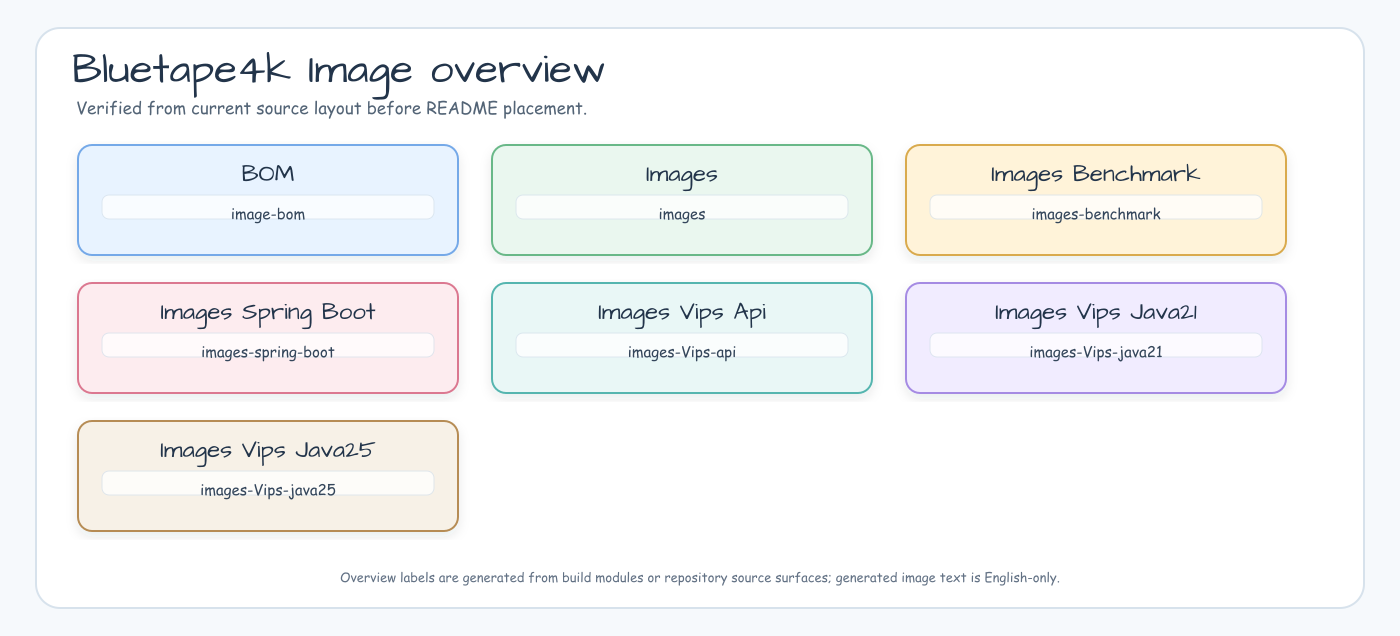
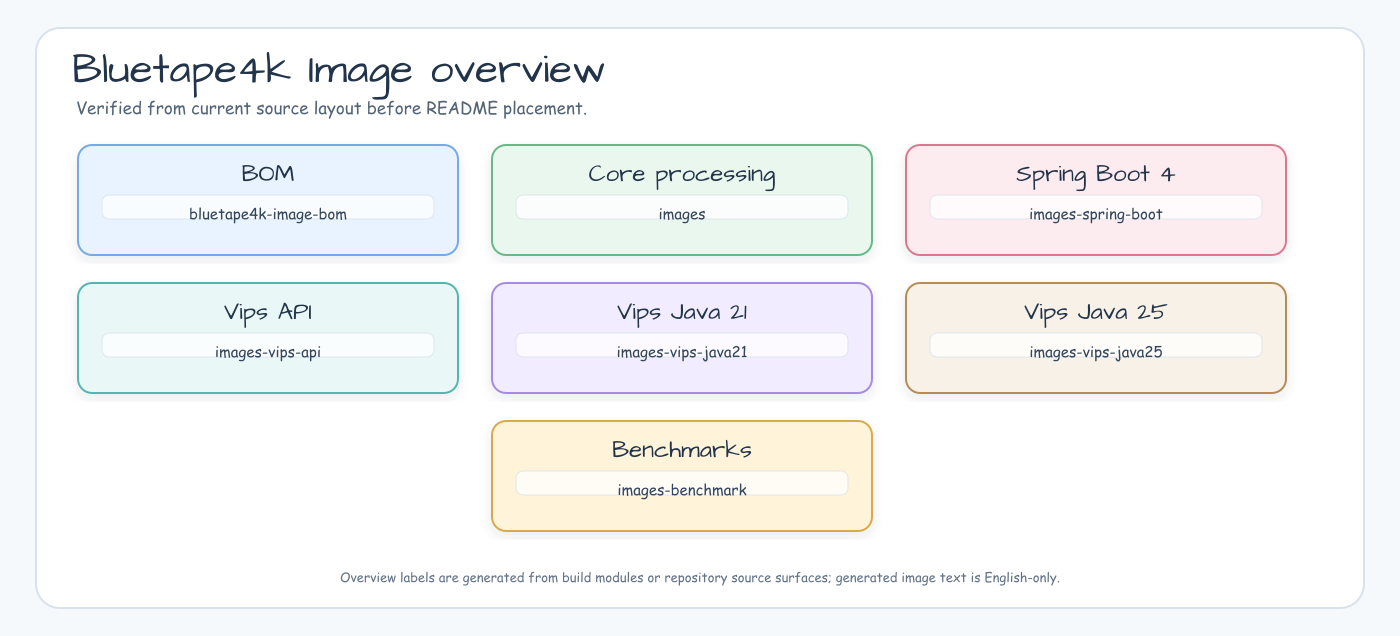
docs: align image README visuals with source modules
Refresh README visuals and dependency examples so the image repository presents the current Gradle module layout first and uses current published coordinates.\n\nConstraint: README diagrams must remain English-only with pastel styling and verified PNG output.\nRejected: Preserve generated title-case labels | they obscured artifact boundaries and left the BOM out of the root module table.\nConfidence: high\nScope-risk: narrow\nDirective: Verify settings.gradle.kts and gradle.properties before regenerating README visuals.\nTested: rsvg-convert root SVG to PNG; xmllint updated SVG assets; README image link scan; stale coordinate grep; git diff --check; ./gradlew -q projects.\nNot-tested: Full Gradle test suite; documentation-only change.

diff --git a/images/README.ko.md b/images/README.ko.md
@@ -4,7 +4,7 @@
 
 JPG, PNG, GIF, WebP, **TIFF/SVG** (Issue #134) 등의 이미지를 로드, 변환, 크기 조절, 분할, 필터 적용 등의 조작을 지원하는 라이브러리입니다.
 [Scrimage](https://github.com/sksamuel/scrimage) 라이브러리를 기반으로 하며, Coroutines를 활용한 비동기 이미지 처리를 제공합니다.
-AVIF·HEIC는 incubating 인터페이스로 제공되며, 구현체는 `bluetape4k-images-vips` 모듈에서 제공합니다.
+AVIF·HEIC는 incubating 인터페이스로 제공되며, libvips 지원은 `images-vips-api`에서 노출하고 런타임 백엔드는 `images-vips-java21` 또는 `images-vips-java25`가 제공합니다.
 
 ## 아키텍처
 
@@ -28,8 +28,8 @@ AVIF·HEIC는 incubating 인터페이스로 제공되며, 구현체는 `bluetape
 | WEBP | `SuspendWebpWriter`              | 최고 압축률, 최신 포맷                                                    |
 | TIFF | `SuspendTiffWriter` / `SuspendTiffMultiPageWriter` | 다중 페이지, 다양한 압축 방식 (DEFLATE/LZW/NONE/JPEG) |
 | SVG  | `BatikSvgRasterizer`             | 래스터 변환; XXE/SSRF 방어 기본 적용                                        |
-| AVIF | `AvifWriter` *(incubating)*      | 인터페이스만 제공, 구현체는 `bluetape4k-images-vips`                         |
-| HEIC | `HeicReader` *(incubating)*      | 인터페이스만 제공, 구현체는 `bluetape4k-images-vips`                         |
+| AVIF | `AvifWriter` *(incubating)*      | 인터페이스만 제공, native 지원이 있을 때 libvips 런타임 백엔드 사용             |
+| HEIC | `HeicReader` *(incubating)*      | 인터페이스만 제공, native 지원이 있을 때 libvips 런타임 백엔드 사용             |
 
 - **동적 생성**: JPG가 가장 빠름 (실시간 처리용)
 - **정적 파일**: WebP가 가장 효율적 (저장 공간 절약)
@@ -755,7 +755,7 @@ val ycbcrArray = image.toYCbCrArray() // FloatArray [y0,cb0,cr0, ...]
 
 ### 변환 아키텍처
 
-![images Architecture 3 diagram](../docs/images/readme-diagrams/images-architecture-03.png)
+![images Transform Architecture diagram](../docs/images/readme-diagrams/images-architecture-03.png)
 
 ### AutoCrop — 자동 여백 제거
 
@@ -986,6 +986,6 @@ val asyncExif: ExifData = File("photo.jpg").suspendReadExif()
 
 ```kotlin
 dependencies {
-    implementation("io.github.bluetape4k:bluetape4k-images:${version}")
+    implementation("io.github.bluetape4k.image:bluetape4k-images:${version}")
 }
 ```

diff --git a/images/README.md b/images/README.md
@@ -2,7 +2,7 @@
 
 English | [한국어](./README.ko.md)
 
-A library for loading, converting, resizing, splitting, and applying filters to images in formats such as JPG, PNG, GIF, WebP, and **TIFF/SVG** (Issue #134). Built on the [Scrimage](https://github.com/sksamuel/scrimage) library with asynchronous image processing via Coroutines. AVIF and HEIC are provided as incubating interfaces (implementations in `bluetape4k-images-vips`).
+A library for loading, converting, resizing, splitting, and applying filters to images in formats such as JPG, PNG, GIF, WebP, and **TIFF/SVG** (Issue #134). Built on the [Scrimage](https://github.com/sksamuel/scrimage) library with asynchronous image processing via Coroutines. AVIF and HEIC are incubating interfaces; libvips support is exposed by `images-vips-api` and runtime-backed by `images-vips-java21` or `images-vips-java25`.
 
 ## Architecture
 
@@ -26,8 +26,8 @@ A library for loading, converting, resizing, splitting, and applying filters to 
 | WEBP   | `SuspendWebpWriter`              | Best compression, modern                                      |
 | TIFF   | `SuspendTiffWriter` / `SuspendTiffMultiPageWriter` | Multi-page, multiple compression modes (DEFLATE/LZW/NONE/JPEG) |
 | SVG    | `BatikSvgRasterizer`             | Rasterize to PNG/JPEG; XXE/SSRF-safe by default               |
-| AVIF   | `AvifWriter` *(incubating)*      | Interface only; implementation in `bluetape4k-images-vips`    |
-| HEIC   | `HeicReader` *(incubating)*      | Interface only; implementation in `bluetape4k-images-vips`    |
+| AVIF   | `AvifWriter` *(incubating)*      | Interface only; use a libvips runtime backend when native support is available |
+| HEIC   | `HeicReader` *(incubating)*      | Interface only; use a libvips runtime backend when native support is available |
 
 - **Dynamic generation**: JPG is fastest (for real-time processing)
 - **Static files**: WebP is most efficient (saves storage)
@@ -962,6 +962,6 @@ Pixel-level regression testing via [`GoldenImageAssert`](src/test/kotlin/io/blue
 
 ```kotlin
 dependencies {
-    implementation("io.github.bluetape4k:bluetape4k-images:${version}")
+    implementation("io.github.bluetape4k.image:bluetape4k-images:${version}")
 }
 ```

diff --git a/README.md b/README.md
@@ -46,12 +46,13 @@ memory use, or native codecs matter.
 
 | Module                | Artifact ID                          | Description                                              |
 |-----------------------|--------------------------------------|----------------------------------------------------------|
-| `images`              | `images`                             | Scrimage-based processing: load, resize, filter, convert, analyze, batch |
-| `images-spring-boot`  | `images-spring-boot`                 | Spring Boot 4 auto-configuration: storage, CDN, health, metrics |
-| `images-vips-api`     | `images-vips-api`                    | Shared `VipsImage` / `VipsRuntime` interfaces (binding-neutral) |
-| `images-vips-java21`  | `images-vips-java21`                 | JVips JNI backend — Java 21+, system libvips             |
-| `images-vips-java25`  | `images-vips-java25`                 | vips-ffm FFM backend — Java 25+, `--enable-native-access` |
-| `images-benchmark`    | `images-benchmark`                   | JMH benchmarks: scrimage vs libvips                      |
+| `bom`                 | `bluetape4k-image-bom`               | Consumer BOM for aligned image artifacts                 |
+| `images`              | `bluetape4k-images`                  | Scrimage-based processing: load, resize, filter, convert, analyze, batch |
+| `images-spring-boot`  | `bluetape4k-images-spring-boot`      | Spring Boot 4 auto-configuration: storage, CDN, health, metrics |
+| `images-vips-api`     | `bluetape4k-images-vips-api`         | Shared `VipsImage` / `VipsRuntime` interfaces (binding-neutral) |
+| `images-vips-java21`  | `bluetape4k-images-vips-java21`      | JVips JNI backend — Java 21+, system libvips             |
+| `images-vips-java25`  | `bluetape4k-images-vips-java25`      | vips-ffm FFM backend — Java 25+, `--enable-native-access` |
+| `images-benchmark`    | `bluetape4k-images-benchmark`        | JMH benchmarks: scrimage vs libvips                      |
 
 ## Architecture
 

diff --git a/docs/lessons/2026-05-21-readme-visual-semantics.md b/docs/lessons/2026-05-21-readme-visual-semantics.md
@@ -1,0 +1,24 @@
+# README Visual Semantics
+
+## Context
+
+The root README visual overview already existed, but the module table and diagram labels did not fully reflect the current Gradle source layout. The BOM project was missing from the root module list, and several Vips labels used generated title casing rather than artifact names.
+
+## Decision
+
+Keep the first README visual as an English-only overview, but use semantic group names that explain role boundaries: BOM, core processing, Spring Boot 4, Vips API, Vips Java 21, Vips Java 25, and benchmarks. Keep install coordinates aligned with `projectGroup=io.github.bluetape4k.image` and current Gradle project names.
+
+## Outcome
+
+Updated the root README module tables, regenerated the root overview and module chart PNGs, normalized stale dependency examples, and corrected localized diagram alt text where labels were misleading.
+
+## Verification
+
+- `rsvg-convert` regenerated updated PNG assets from SVG sources.
+- `xmllint --noout` passed for updated root SVG assets.
+- `./gradlew -q projects` confirmed current projects: `:bluetape4k-image-bom`, `:bluetape4k-images`, Spring Boot, Vips API, Vips Java 21, Vips Java 25, and benchmark modules.
+- Visual inspection confirmed centered labels and readable layout.
+
+## Future Guidance
+
+When README diagrams are refreshed, verify module names against `settings.gradle.kts` and artifact group against `gradle.properties` before rendering PNGs.

diff --git a/images-vips-api/README.md b/images-vips-api/README.md
@@ -267,12 +267,12 @@ This module provides only the API layer. For actual image processing, depend on 
 
 ```kotlin
 dependencies {
-    api("io.github.bluetape4k:bluetape4k-images-vips-api:${version}")
+    api("io.github.bluetape4k.image:bluetape4k-images-vips-api:${version}")
     
     // Choose ONE implementation:
-    runtimeOnly("io.github.bluetape4k:bluetape4k-images-vips-java21:${version}")  // JVips (Java 21+)
+    runtimeOnly("io.github.bluetape4k.image:bluetape4k-images-vips-java21:${version}")  // JVips (Java 21+)
     // OR
-    runtimeOnly("io.github.bluetape4k:bluetape4k-images-vips-java25:${version}")  // vips-ffm (Java 25+)
+    runtimeOnly("io.github.bluetape4k.image:bluetape4k-images-vips-java25:${version}")  // vips-ffm (Java 25+)
 }
 ```
 

diff --git a/images-vips-api/README.ko.md b/images-vips-api/README.ko.md
@@ -267,12 +267,12 @@ image.writeTo(userPath, format)  // 경로 탐색 가능
 
 ```kotlin
 dependencies {
-    api("io.github.bluetape4k:bluetape4k-images-vips-api:${version}")
+    api("io.github.bluetape4k.image:bluetape4k-images-vips-api:${version}")
     
     // 다음 중 하나를 선택하세요:
-    runtimeOnly("io.github.bluetape4k:bluetape4k-images-vips-java21:${version}")  // JVips (Java 21+)
+    runtimeOnly("io.github.bluetape4k.image:bluetape4k-images-vips-java21:${version}")  // JVips (Java 21+)
     // 또는
-    runtimeOnly("io.github.bluetape4k:bluetape4k-images-vips-java25:${version}")  // vips-ffm (Java 25+)
+    runtimeOnly("io.github.bluetape4k.image:bluetape4k-images-vips-java25:${version}")  // vips-ffm (Java 25+)
 }
 ```
 

diff --git a/images-vips-java21/README.ko.md b/images-vips-java21/README.ko.md
@@ -53,7 +53,7 @@ JVips 라이브러리는 네이티브 `.so` 파일을 번들로 제공하므로,
 
 ```kotlin
 dependencies {
-    implementation("io.bluetape4k:bluetape4k-images-vips-java21:1.7.0")
+    implementation("io.github.bluetape4k.image:bluetape4k-images-vips-java21:1.7.0")
 }
 ```
 
@@ -61,8 +61,8 @@ dependencies {
 
 ```kotlin
 dependencies {
-    implementation(platform("io.bluetape4k:bluetape4k-bom:1.7.0"))
-    implementation("io.bluetape4k:bluetape4k-images-vips-java21")
+    implementation(platform("io.github.bluetape4k.image:bluetape4k-image-bom:1.7.0"))
+    implementation("io.github.bluetape4k.image:bluetape4k-images-vips-java21")
 }
 ```
 

diff --git a/images-vips-java21/README.md b/images-vips-java21/README.md
@@ -53,7 +53,7 @@ Add to `build.gradle.kts`:
 
 ```kotlin
 dependencies {
-    implementation("io.bluetape4k:bluetape4k-images-vips-java21:1.7.0")
+    implementation("io.github.bluetape4k.image:bluetape4k-images-vips-java21:1.7.0")
 }
 ```
 
@@ -61,8 +61,8 @@ Or use the BOM:
 
 ```kotlin
 dependencies {
-    implementation(platform("io.bluetape4k:bluetape4k-bom:1.7.0"))
-    implementation("io.bluetape4k:bluetape4k-images-vips-java21")
+    implementation(platform("io.github.bluetape4k.image:bluetape4k-image-bom:1.7.0"))
+    implementation("io.github.bluetape4k.image:bluetape4k-images-vips-java21")
 }
 ```
 

diff --git a/images-vips-java25/README.ko.md b/images-vips-java25/README.ko.md
@@ -64,7 +64,7 @@ java -jar myapp.jar --enable-native-access=ALL-UNNAMED
 
 ```kotlin
 dependencies {
-    implementation("io.bluetape4k:bluetape4k-images-vips-java25:1.7.0")
+    implementation("io.github.bluetape4k.image:bluetape4k-images-vips-java25:1.7.0")
 }
 ```
 
@@ -419,7 +419,7 @@ class ImageController(
 
 ### scrimage 대비 성능
 
-![scrimage diagram](../docs/images/readme-diagrams/images-vips-java25-architecture-02.png)
+![Performance vs scrimage diagram](../docs/images/readme-diagrams/images-vips-java25-architecture-02.png)
 
 **CI Linux (Ubuntu 24.04, GraalVM 25, libvips 8.15.1)**
 

diff --git a/images-vips-java25/README.md b/images-vips-java25/README.md
@@ -64,7 +64,7 @@ Without this flag, `FfmVipsRuntime.init()` will log a warning and FFM operations
 
 ```kotlin
 dependencies {
-    implementation("io.bluetape4k:bluetape4k-images-vips-java25:1.7.0")
+    implementation("io.github.bluetape4k.image:bluetape4k-images-vips-java25:1.7.0")
 }
 ```
 

diff --git a/bom/README.ko.md b/bom/README.ko.md
@@ -5,7 +5,7 @@
 **bluetape4k-image** 생태계용 Maven BOM (Bill of Materials). 모든 `io.github.bluetape4k.image:*`
 모듈의 버전을 중앙 관리한다.
 
-## Architecture
+## 아키텍처
 
 ![bom Architecture diagram](../docs/images/readme-diagrams/bom-architecture-01.png)
 
